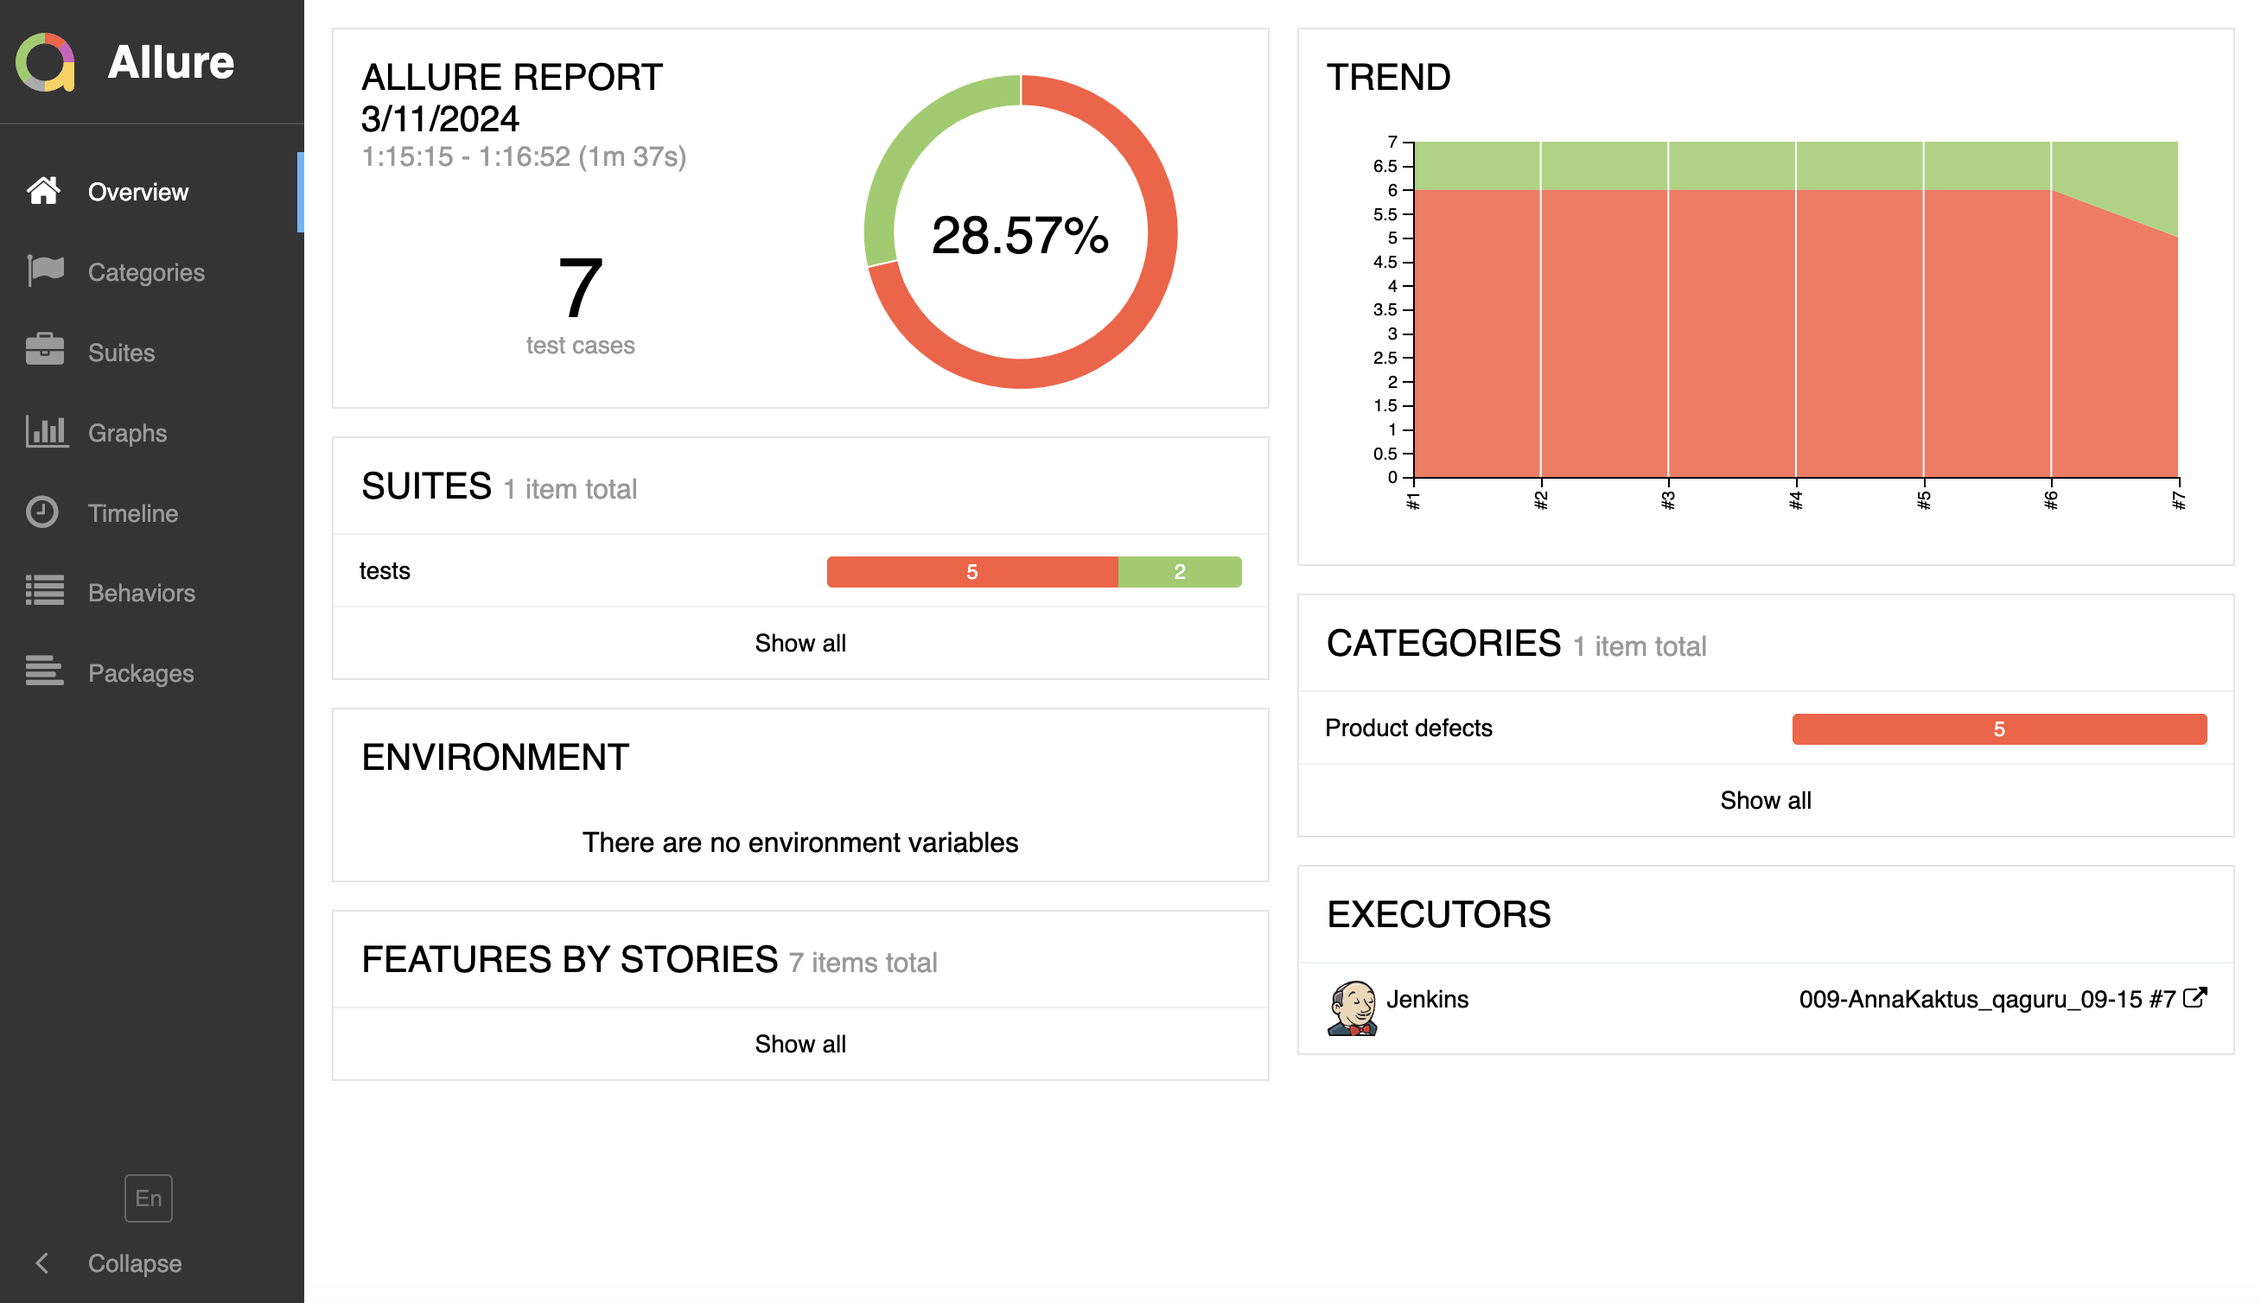
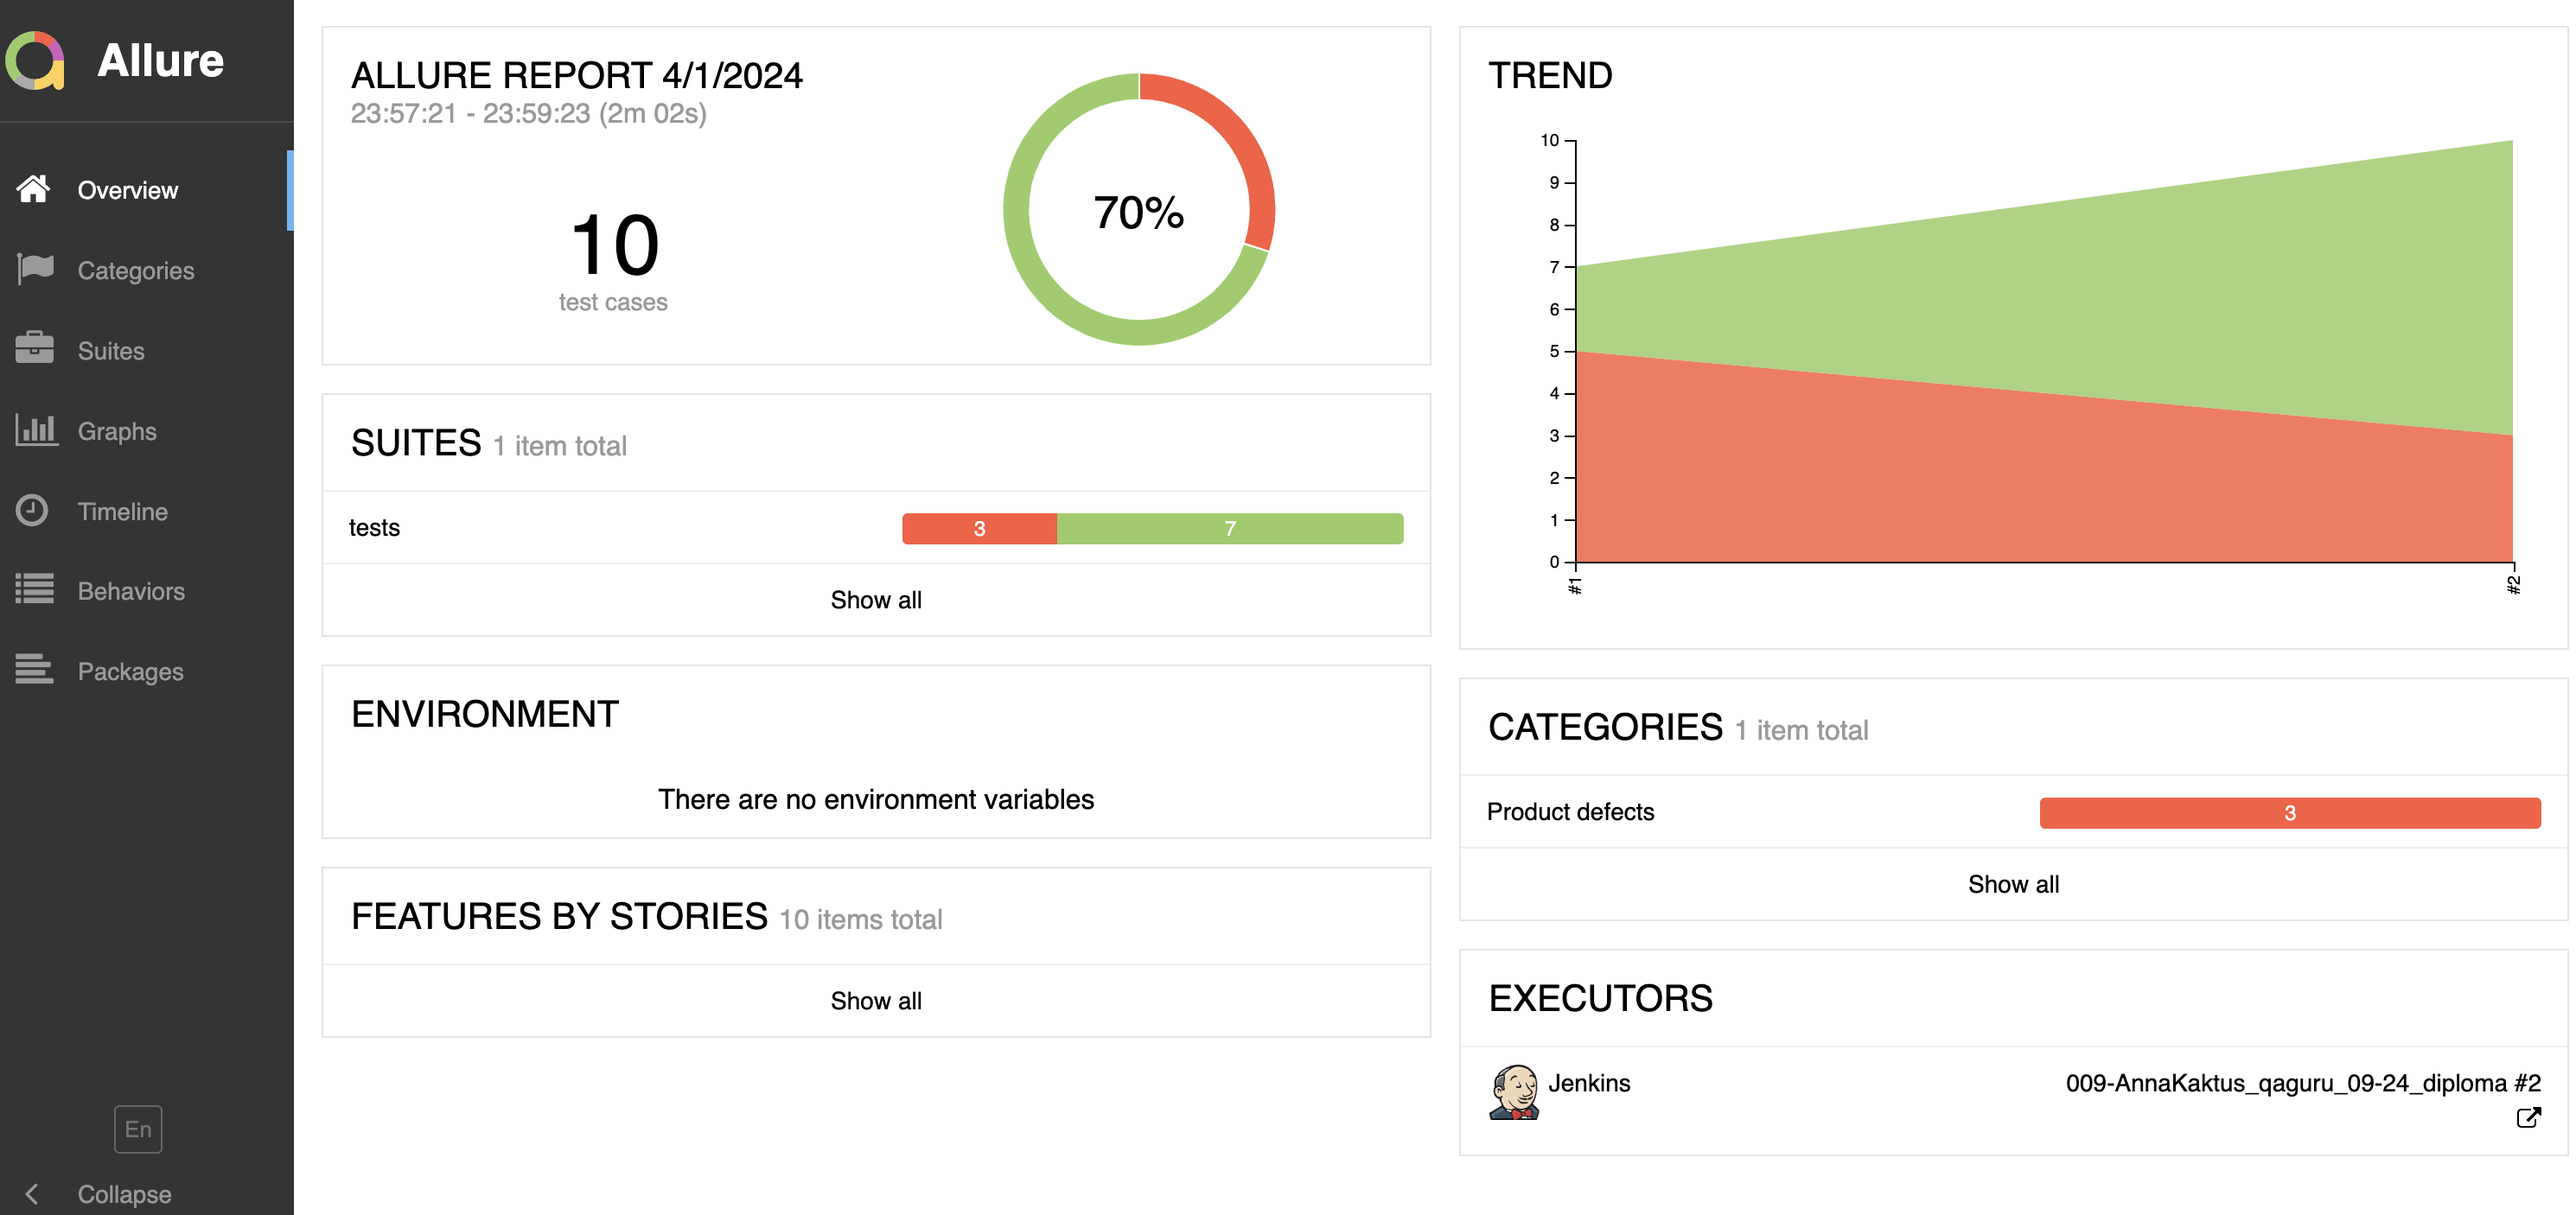
переделано для wiki-2

diff --git a/README.md b/README.md
@@ -1,14 +1,16 @@
-# Проект по тестированию электронной библиотеки MYBOOK
+# Проект по тестированию сайта Wikipedia
 
-> <a target="_blank" href="https://www.mybook.ru/">Ссылка на электронную библиотеку</a>
+> <a target="_blank" href="https://en.wikipedia.org/wiki/Main_Page">Ссылка на  вики</a>
 
 #### Список проверок, реализованных в автотестах
 
 - [x] Проверка авторизации с валидными и не валидными данными
-- [x] Провека добавления и удаления книги в раздел Мои книги
-- [x] Провека создания и удаления новой книжной полки
-- [x] Проверка логаута
-- [x] Проверка поиска по автору и по книге
+- [x] Проверка смены языка
+- [x] Провека лоаута
+- [x] Провека настроек пользователя
+- [x] Проверка поиска по статьям с валидными и невалидными данными
+- [x] Проверка формирования короткой ссылки на статью
+- [x] Провкерка редактирования в "песочнице"
 
 ### Структура проекта
 
@@ -73,3 +75,5 @@ allure serve allure-results
 ![This is an image](/design/screens/test_video.gif)
 
 ### Настроено автоматическое оповещение о результатах сборки Jenkins в Telegram-бот
+
+![This is an image](/design/screens/tg_screen.png)
